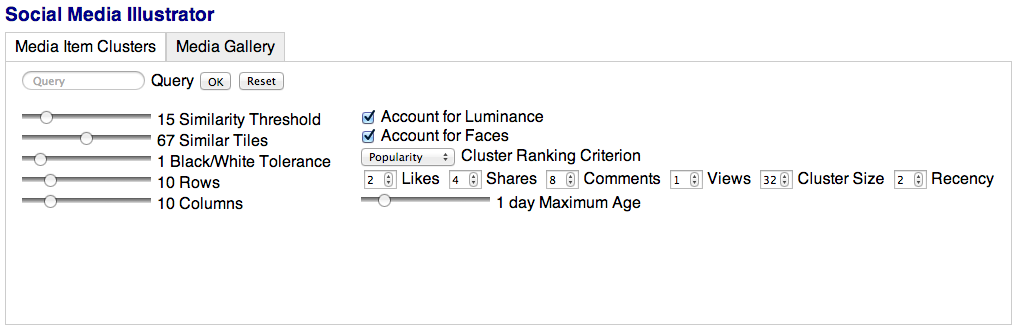
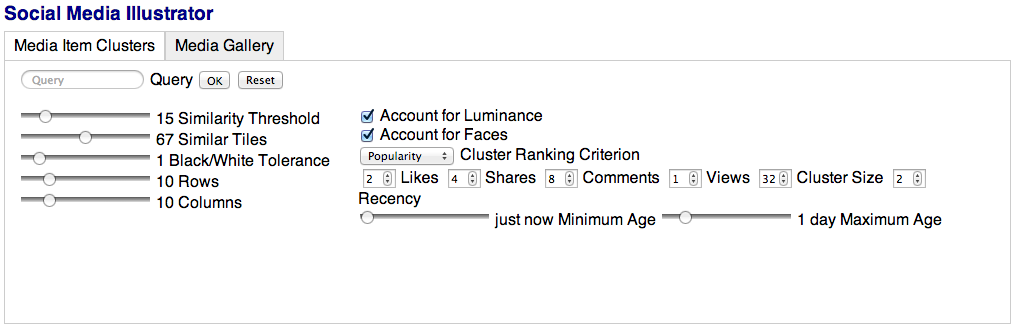
Added Social Media Illustrator description section.

Changed region(s): [[0.0, 0.3333, 0.9764, 0.697], [0.0, 0.0, 1.0, 0.2727], [0.0, 0.4545, 0.061, 0.6364]]

diff --git a/code/static/main.js b/code/static/main.js
@@ -46,6 +46,7 @@
       crossNetwork: 32,
       recency: 2
     },
+    minAge: 0,
     maxAge: 1 * 24 * 60 * 60 * 1000, // 1 day
     mediaGallerySize: 25,
     mediaGalleryWidth: 1200,
@@ -563,20 +564,49 @@
         illustrator.createMediaGallery(true);
       });
 
+      var minAge = document.getElementById('minAge');
       var maxAge = document.getElementById('maxAge');
+      minAge.max = 7 * 24 * 60 * 60 * 1000; // 7 days
+      minAge.min = 0;
       maxAge.max = 7 * 24 * 60 * 60 * 1000; // 7 days
-      maxAge.min = 1 * 60 * 1000; // 1 minute
+      maxAge.min = 0;
+      minAge.value = illustrator.minAge;
       maxAge.value = illustrator.maxAge;
+      var minAgeLabel = document.getElementById('minAgeLabel');
       var maxAgeLabel = document.getElementById('maxAgeLabel');
+      minAgeLabel.innerHTML = humaneDate(new Date((Date.now() -
+          parseInt(minAge.value, 10))));
       maxAgeLabel.innerHTML = humaneDate(new Date((Date.now() -
           parseInt(maxAge.value, 10))));
+
+      minAge.addEventListener('change', function() {
+        minAgeLabel.innerHTML = humaneDate(new Date((Date.now() -
+            parseInt(minAge.value, 10))));
+        if (parseInt(minAge.value, 10) >= parseInt(maxAge.value, 10)) {
+          maxAge.value = parseInt(minAge.value, 10);
+          maxAgeLabel.innerHTML = humaneDate(new Date((Date.now() -
+              parseInt(maxAge.value, 10))));
+        }
+      });
+
       maxAge.addEventListener('change', function() {
         maxAgeLabel.innerHTML = humaneDate(new Date((Date.now() -
             parseInt(maxAge.value, 10))));
+        if (parseInt(maxAge.value, 10) <= parseInt(minAge.value, 10)) {
+          minAge.value = parseInt(maxAge.value, 10);
+          minAgeLabel.innerHTML = humaneDate(new Date((Date.now() -
+              parseInt(minAge.value, 10))));
+        }
       });
+
+      minAge.addEventListener('mouseup', function() {
+        illustrator.minAge = parseInt(minAge.value, 10);
+        illustrator.filterForMinMaxAgeAndVisibility();
+      });
+
       maxAge.addEventListener('mouseup', function() {
         illustrator.maxAge = parseInt(maxAge.value, 10);
-        illustrator.filterForMaxAgeAndVisibility();
+        illustrator.filterForMinMaxAgeAndVisibility();
       });
 
       var threshold = document.getElementById('threshold');
@@ -692,7 +722,7 @@
           var sources = illustrator.queries[queryId].forEach(function(source) {
             illustrator.mediaItems[source].currentlyVisible = checkbox.checked;
           });
-          illustrator.filterForMaxAgeAndVisibility();
+          illustrator.filterForMinMaxAgeAndVisibility();
         }
       });
 
@@ -1154,9 +1184,9 @@
           }
         }
       }
-      illustrator.filterForMaxAgeAndVisibility();
+      illustrator.filterForMinMaxAgeAndVisibility();
     },
-    filterForMaxAgeAndVisibility: function() {
+    filterForMinMaxAgeAndVisibility: function() {
       illustrator.showStatusMessage('Filtering media items for maximum age and visibility');
       var now = Date.now();
       for (var key in illustrator.mediaItems) {
@@ -1171,9 +1201,10 @@
             mediaItem.considerMediaItem = true; // was: false
           }
           // perfect
-          else if (now - mediaItem.timestamp <= illustrator.maxAge) {
+          else if ((now - mediaItem.timestamp <= illustrator.maxAge) &&
+                   (now - mediaItem.timestamp >= illustrator.minAge)) {
             mediaItem.considerMediaItem = true;
-          // too old
+          // too old or too young
           } else {
             mediaItem.considerMediaItem = false;
           }

diff --git a/code/index.html b/code/index.html
@@ -76,8 +76,12 @@
                 <label for="recencyWeight">Recency</label>
                 <br/>
 
+                <input type="range" id="minAge"/>
+                <label id="minAgeLabel" for="minAge"></label> Minimum Age
+
                 <input type="range" id="maxAge"/>
                 <label id="maxAgeLabel" for="maxAge"></label> Maximum Age
+
               </fieldset>
             </form>
 

diff --git a/9_media_item_compilation/media_item_compilation.tex b/9_media_item_compilation/media_item_compilation.tex
@@ -157,6 +157,7 @@ two of which we have implemented and evaluated via two different user studies.
 One with, and one without detailed user comments.
 
 \section{Media Gallery Styles}
+\label{sec:mediagallerystyles}
 
 Media galleries---in contrast to free-form digital media collages---%
 necessarily display media items in a~grid-like way.
@@ -487,6 +488,7 @@ and is a~start--to--end solution tailored to both
 non-expert and expert users.
 \autoref{fig:socialmediaillustrator}
 shows the start screen of the application.
+The application has two tabs: Media Item Clusters and Media Gallery.
 
 \begin{figure}[htb]
   \centering
@@ -494,6 +496,70 @@ shows the start screen of the application.
   \caption{Social Media Illustrator start screen}
   \label{fig:socialmediaillustrator}
 \end{figure}
+
+\paragraph{Media Item Extraction}
+
+In a~first step, the user enters a~set of search terms
+that are likely to reveal media items related to a~given event.
+These search terms can be official event hashtags
+(\emph{e.g.}, \texttt{\#VSFashionShow}
+for the event described in \autoref{sec:vsfashionshow}),
+but more commonly a~combination of names of the involved actors,
+event names, event locations, or times, like, for example, \emph{Stanley Cup 2013}.
+Search results for each search term appear in the results panel
+in the lower part of the graphical user interface
+in form of so-called search bundles.
+Each search bundle is associated with its originating search term,
+search bundles can be enabled and disabled at will.
+Undesired media items can be removed from the result bundle
+by clicking a~red cross that appears
+when hovering over the media item in question.
+
+\paragraph{Media Item Deduplication}
+
+Via the parameter settings on the left side, 
+fine-grained control over the deduplicating
+and matching algorithm is possible. 
+The configurable options are best described in \autoref{sec:media-item-deduplication-algorithm}.
+Changes to any of the parameters are reflected in realtime
+in the results panel below, which facilitates finding the optimal 
+settings for a~given result set consisting of result bundles.
+
+\paragraph{Media Item Ranking}
+
+The parameter settings on the right side 
+allow for interactively changing the ranking factors.
+The user can select the main ranking criterion like recency or popularity, and modify the weight factors 
+for the different ranking features in the ranking formula,
+as detailed in \autoref{sec:introduction-of-a-ranking-formula}.
+Again all changes are reflected in realtime.
+A~slider control allows for selecting the maximum 
+and minimum age of the considered media items 
+in order to restrict the result set to a~given time period.
+
+\paragraph{Micropost Annotation}
+
+Once the user is happy with her selection and ranking of media items,
+the next step is micropost annotation,
+which---in contrast to the sequence suggested by the chapter order---%
+only happens at this stage, based on only the final set of media items.
+This is due to the fact that calling the external
+named entity extraction and disambiguation services described in
+\autoref{sec:nlp-services} is very expensive and time-consuming,
+especially if an intermediate machine translation step is required.
+
+\paragraph{Media Item Compilation}
+
+The final step of media item compilation can be initiated
+by clicking on the Media Gallery tab.
+A~configurable number of media items are compiled either in 
+Loose Order, Varying Size (LOVS) style, or 
+Strict Order, Equal Size (SOES), which was detailed in 
+\autoref{sec:mediagallerystyles}.
+The number of considered media items,
+the width of the overall media gallery,
+and the width of individual media items can be customized,
+with the changes being reflected on-the-fly.
 
 \section{Conclusions and Future Work}
 

diff --git a/7_media_item_deduplication/media_item_deduplication.tex b/7_media_item_deduplication/media_item_deduplication.tex
@@ -630,6 +630,7 @@ Album, Record and Song of the Year and Best New Artist.
 CBS suggested the hashtag \texttt{\#GRAMMYNoms} for the event.
 
 \paragraph{Victoria's Secret Fashion Show 2012:}
+\label{sec:vsfashionshow}
 
 The \emph{Victoria's Secret Fashion
 Show}\footnote{\url{http://en.wikipedia.org/wiki/Victoria's_Secret_Fashion_Show},
